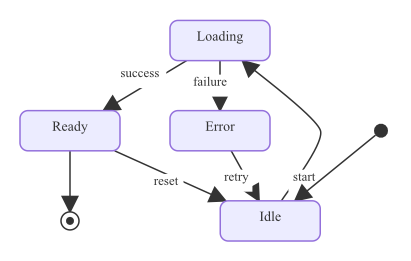
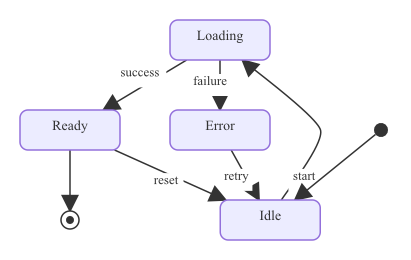
state: address review — share helpers, drop bare-colon, harden tests
Quality fixes from the simplify pass on PR #148:

- Lift `rankDirFor` from class + state renderers into a shared
  `svgutil.RankDirFor`. Both renderers had byte-identical bodies;
  collapses 14 lines of duplication.
- Add `parserutil.ExpandLineBreaks(s)` for the literal `\n` →
  newline conversion. Class-note and state-transition parsers
  both call it now (was inlined `strings.ReplaceAll` in two
  places).
- Drop the bare-colon (`id:text` without surrounding spaces)
  fallback in `parseStateDescription`. Mermaid's grammar requires
  the spaced form, the fallback was untested, and it's
  inconsistent with the class parser's matching helper.
- Extract `titleBandHeight` and `descLineHeight` shared between
  `stateNodeSize` and `renderNodes` so the divider y-coordinate
  in render matches the height the sizer accounted for. Previously
  sizing used ruler-measured title height while render used a
  fontSize-derived constant — the two could drift.
- Trim the StateDef.Description doc comment to focus on what the
  field IS rather than how it renders.
- Tighten TestRenderStateDescription's divider-line assertion to
  check geometry (`<line>` element with matching y1/y2 at the
  title-band bottom) rather than just any line with the matching
  stroke width.
- Trim narrative second sentence on parseTransition's `\n`
  comment.

Snapshots regenerated to reflect the consistent title-band
geometry.

1793 tests pass with -race; lint clean.

diff --git a/pkg/renderer/state/renderer.go b/pkg/renderer/state/renderer.go
@@ -80,7 +80,7 @@ func Render(d *diagram.StateDiagram, opts *Options) ([]byte, error) {
 		g.SetEdge(from, to, graph.EdgeAttrs{Label: t.Label})
 	}
 
-	l := layout.Layout(g, layout.Options{RankDir: rankDirFor(d.Direction)})
+	l := layout.Layout(g, layout.Options{RankDir: svgutil.RankDirFor(d.Direction)})
 	pad := defaultPadding
 
 	viewW := sanitize(l.Width) + 2*pad
@@ -109,18 +109,6 @@ func Render(d *diagram.StateDiagram, opts *Options) ([]byte, error) {
 	return append(xmlDecl, svgBytes...), nil
 }
 
-func rankDirFor(d diagram.Direction) layout.RankDir {
-	switch d {
-	case diagram.DirectionBT:
-		return layout.RankDirBT
-	case diagram.DirectionLR:
-		return layout.RankDirLR
-	case diagram.DirectionRL:
-		return layout.RankDirRL
-	}
-	return layout.RankDirTB
-}
-
 func sanitize(v float64) float64 {
 	if math.IsNaN(v) || math.IsInf(v, 0) || v < 0 {
 		return 0
@@ -139,6 +127,21 @@ func collectAllStates(states []diagram.StateDef) []diagram.StateDef {
 	return all
 }
 
+// titleBandHeight is the vertical band reserved for the state's
+// title row inside its rounded rect. Shared between sizing and
+// rendering so the description divider lands on the same y as
+// stateNodeSize accounted for.
+func titleBandHeight(fontSize float64) float64 {
+	return fontSize + 2*statePadY
+}
+
+// descLineHeight is the per-line height of the description
+// compartment. Shared between sizing and rendering for the same
+// reason as titleBandHeight.
+func descLineHeight(fontSize float64) float64 {
+	return fontSize + 2
+}
+
 func stateNodeSize(s diagram.StateDef, ruler *textmeasure.Ruler, fontSize float64) (w, h float64) {
 	switch s.Kind {
 	case diagram.StateKindFork, diagram.StateKindJoin:
@@ -146,14 +149,10 @@ func stateNodeSize(s diagram.StateDef, ruler *textmeasure.Ruler, fontSize float6
 	case diagram.StateKindChoice:
 		return choiceSize, choiceSize
 	}
-	tw, th := ruler.Measure(s.Label, fontSize)
+	tw, _ := ruler.Measure(s.Label, fontSize)
 	w = tw + 2*statePadX
-	h = th + 2*statePadY
+	h = titleBandHeight(fontSize)
 	if s.Description != "" {
-		// Description rows live in a second compartment under the
-		// title, separated by a divider. Each line of the
-		// description widens the box if it's longer than the title
-		// and adds one row to the height.
 		descLines := strings.Split(s.Description, "\n")
 		for _, line := range descLines {
 			lw, _ := ruler.Measure(line, fontSize-1)
@@ -161,7 +160,7 @@ func stateNodeSize(s diagram.StateDef, ruler *textmeasure.Ruler, fontSize float6
 				w = lw + 2*statePadX
 			}
 		}
-		h += statePadY + float64(len(descLines))*(fontSize+2)
+		h += statePadY + float64(len(descLines))*descLineHeight(fontSize)
 	}
 	if w < minStateW {
 		w = minStateW
@@ -211,7 +210,7 @@ func renderNodes(states []diagram.StateDef, l *layout.Result, pad, fontSize floa
 				Style: fmt.Sprintf("fill:%s;stroke:%s;stroke-width:1.5", th.StateFill, th.StateStroke),
 			})
 			if s.Description != "" {
-				titleH := fontSize + 2*statePadY
+				titleH := titleBandHeight(fontSize)
 				elems = append(elems, &text{
 					X: svgFloat(cx), Y: svgFloat(y + titleH/2),
 					Anchor: "middle", Dominant: "central",
@@ -224,7 +223,7 @@ func renderNodes(states []diagram.StateDef, l *layout.Result, pad, fontSize floa
 					Style: fmt.Sprintf("stroke:%s;stroke-width:1", th.StateStroke),
 				})
 				descLines := strings.Split(s.Description, "\n")
-				lineH := fontSize + 2
+				lineH := descLineHeight(fontSize)
 				for i, ln := range descLines {
 					ly := y + titleH + statePadY/2 + float64(i)*lineH + lineH/2
 					elems = append(elems, &text{

diff --git a/pkg/parser/state/parser.go b/pkg/parser/state/parser.go
@@ -93,24 +93,14 @@ func (p *parser) parseLine(line string, target *[]diagram.StateDef) error {
 }
 
 // parseStateDescription matches `id : description text` outside of
-// any arrow-bearing transition. The state ID must be a bare token
-// with no whitespace; the description spans the rest of the line.
+// any arrow-bearing transition. Mermaid's grammar requires whitespace
+// around the colon, so we only accept that form — same convention as
+// the class parser uses for single-line members. A bare `id:text`
+// is rejected (it's typically a typo or a misparsed transition).
 func parseStateDescription(line string) (id, desc string, ok bool) {
 	colon := strings.Index(line, " : ")
 	if colon < 0 {
-		// Allow `id: text` without surrounding spaces too.
-		colon = strings.Index(line, ":")
-		if colon < 0 {
-			return "", "", false
-		}
-		// Reject if the colon is part of an arrow-style label that
-		// somehow slipped past parseTransition (defensive — the
-		// caller ordering already excludes arrows).
-		id = strings.TrimSpace(line[:colon])
-		if id == "" || strings.ContainsAny(id, " \t") {
-			return "", "", false
-		}
-		return id, strings.TrimSpace(line[colon+1:]), true
+		return "", "", false
 	}
 	id = strings.TrimSpace(line[:colon])
 	if id == "" || strings.ContainsAny(id, " \t") {
@@ -195,10 +185,8 @@ func parseTransition(line string) (diagram.StateTransition, bool) {
 	label := ""
 	if colonIdx := strings.Index(rest, ":"); colonIdx >= 0 {
 		to = strings.TrimSpace(rest[:colonIdx])
-		// Mermaid uses literal `\n` as a line-break in transition
-		// labels (so `A --> B : foo\nbar` shows two stacked lines).
-		// Convert to a real newline so renderers can split directly.
-		label = strings.ReplaceAll(strings.TrimSpace(rest[colonIdx+1:]), `\n`, "\n")
+		// Mermaid uses literal `\n` as a line-break in transition labels.
+		label = parserutil.ExpandLineBreaks(strings.TrimSpace(rest[colonIdx+1:]))
 	}
 	if from == "" || to == "" {
 		return diagram.StateTransition{}, false

diff --git a/pkg/renderer/state/renderer_test.go b/pkg/renderer/state/renderer_test.go
@@ -183,10 +183,32 @@ func TestRenderStateDescription(t *testing.T) {
 	if !strings.Contains(raw, ">Idle phase<") {
 		t.Error("description missing")
 	}
-	// Divider line stroke = state stroke; counted separately from
-	// any other lines.
-	if strings.Count(raw, fmt.Sprintf("stroke:%s;stroke-width:1\"", DefaultTheme().StateStroke)) < 1 {
-		t.Errorf("expected at least one divider line stroked with %s", DefaultTheme().StateStroke)
+	// Divider line: a horizontal `<line>` with matching y1/y2 at
+	// the bottom of the title band, stroked with the state stroke.
+	// Geometric check is more discriminating than counting strokes
+	// (rect borders use 1.5; an accidental width-1 line elsewhere
+	// would otherwise pass the looser check).
+	dividerStyle := fmt.Sprintf(`style="stroke:%s;stroke-width:1"`, DefaultTheme().StateStroke)
+	idx := strings.Index(raw, dividerStyle)
+	if idx < 0 {
+		t.Fatalf("divider stroke style %q missing from output", dividerStyle)
+	}
+	// Walk back to find the enclosing <line ...> open tag and
+	// verify y1==y2 (horizontal divider).
+	lineOpen := strings.LastIndex(raw[:idx], "<line")
+	if lineOpen < 0 {
+		t.Fatal("no <line> element wraps the divider style")
+	}
+	lineTag := raw[lineOpen:idx]
+	var x1, y1, x2, y2 float64
+	if _, err := fmt.Sscanf(lineTag, `<line x1="%f" y1="%f" x2="%f" y2="%f"`, &x1, &y1, &x2, &y2); err != nil {
+		t.Fatalf("divider geom parse %q: %v", lineTag, err)
+	}
+	if y1 != y2 {
+		t.Errorf("divider not horizontal: y1=%f y2=%f", y1, y2)
+	}
+	if x1 >= x2 {
+		t.Errorf("divider not left-to-right: x1=%f x2=%f", x1, x2)
 	}
 }
 

diff --git a/pkg/renderer/class/renderer.go b/pkg/renderer/class/renderer.go
@@ -65,7 +65,7 @@ func Render(d *diagram.ClassDiagram, opts *Options) ([]byte, error) {
 		g.SetEdge(r.From, r.To, graph.EdgeAttrs{Label: r.Label})
 	}
 
-	l := layout.Layout(g, layout.Options{RankDir: rankDirFor(d.Direction)})
+	l := layout.Layout(g, layout.Options{RankDir: svgutil.RankDirFor(d.Direction)})
 	pad := defaultPadding
 
 	contentW := svgutil.Sanitize(l.Width) + 2*pad
@@ -148,18 +148,6 @@ func Render(d *diagram.ClassDiagram, opts *Options) ([]byte, error) {
 	}
 	xmlDecl := []byte("<?xml version=\"1.0\" encoding=\"UTF-8\"?>\n")
 	return append(xmlDecl, svgBytes...), nil
-}
-
-func rankDirFor(d diagram.Direction) layout.RankDir {
-	switch d {
-	case diagram.DirectionBT:
-		return layout.RankDirBT
-	case diagram.DirectionLR:
-		return layout.RankDirLR
-	case diagram.DirectionRL:
-		return layout.RankDirRL
-	}
-	return layout.RankDirTB
 }
 
 func classNodeSize(c diagram.ClassDef, ruler *textmeasure.Ruler, fontSize float64) (w, h float64) {

diff --git a/pkg/renderer/svgutil/svgutil.go b/pkg/renderer/svgutil/svgutil.go
@@ -9,6 +9,7 @@ import (
 	"strconv"
 	"strings"
 
+	"github.com/julianshen/mmgo/pkg/diagram"
 	"github.com/julianshen/mmgo/pkg/layout"
 )
 
@@ -410,6 +411,21 @@ type Path struct {
 type Defs struct {
 	XMLName xml.Name `xml:"defs"`
 	Markers []Marker `xml:"marker,omitempty"`
+}
+
+// RankDirFor maps a diagram.Direction to the layout package's
+// RankDir. DirectionUnknown (and any unrecognised value) defaults
+// to top-to-bottom — the convention every diagram type follows.
+func RankDirFor(d diagram.Direction) layout.RankDir {
+	switch d {
+	case diagram.DirectionBT:
+		return layout.RankDirBT
+	case diagram.DirectionLR:
+		return layout.RankDirLR
+	case diagram.DirectionRL:
+		return layout.RankDirRL
+	}
+	return layout.RankDirTB
 }
 
 // BBox accumulates an axis-aligned bounding box of arbitrary

diff --git a/pkg/parser/string.go b/pkg/parser/string.go
@@ -2,6 +2,15 @@ package parser
 
 import "strings"
 
+// ExpandLineBreaks converts the literal two-character sequence `\n`
+// (a backslash followed by `n`) into a real newline. Mermaid uses
+// this convention to embed line breaks inside labels, note text, and
+// other free-form fields without forcing the source to span actual
+// lines.
+func ExpandLineBreaks(s string) string {
+	return strings.ReplaceAll(s, `\n`, "\n")
+}
+
 // Unquote strips a single pair of matching surrounding quotes — either
 // `"..."` or `'...'` — after first trimming whitespace. Strings without
 // surrounding quotes are returned as-is (but still whitespace-trimmed).

diff --git a/pkg/diagram/state.go b/pkg/diagram/state.go
@@ -16,9 +16,9 @@ func (s StateKind) String() string { return enumString(s, stateKindNames) }
 type StateDef struct {
 	ID    string
 	Label string
-	// Description is the optional secondary text shown below the
-	// state title, parsed from `id : description` syntax. Renders
-	// as a second compartment under a divider line.
+	// Description is optional secondary text parsed from
+	// `id : description` syntax. Renderers may show it below the
+	// state title in a separate compartment.
 	Description string
 	Kind        StateKind
 	Children    []StateDef

diff --git a/pkg/parser/class/parser.go b/pkg/parser/class/parser.go
@@ -172,7 +172,7 @@ func (p *parser) parseNote(line string) error {
 		return fmt.Errorf("note %q: text must be quoted", line)
 	}
 	p.diagram.Notes = append(p.diagram.Notes, diagram.ClassNote{
-		Text: strings.ReplaceAll(text, `\n`, "\n"),
+		Text: parserutil.ExpandLineBreaks(text),
 		For:  target,
 	})
 	return nil
